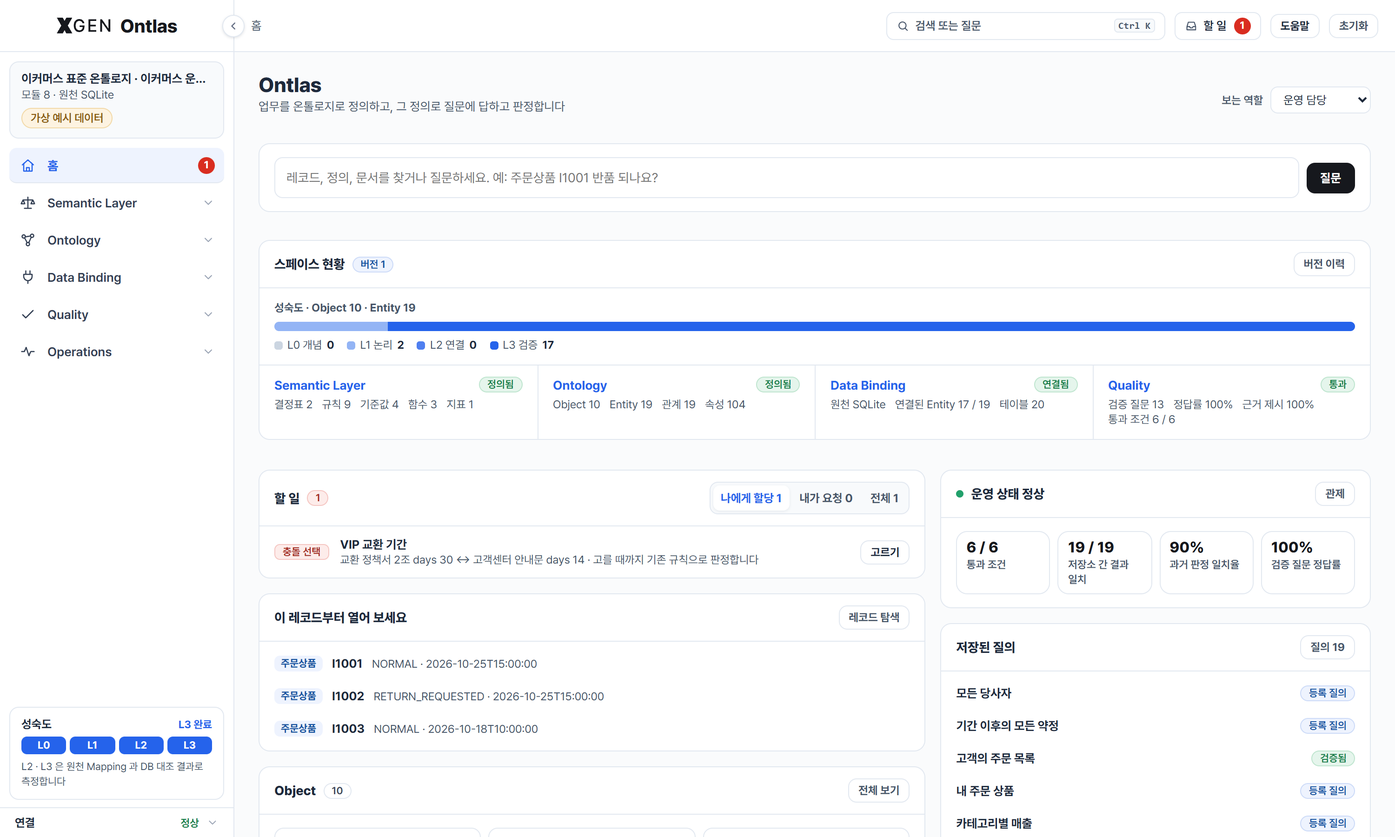
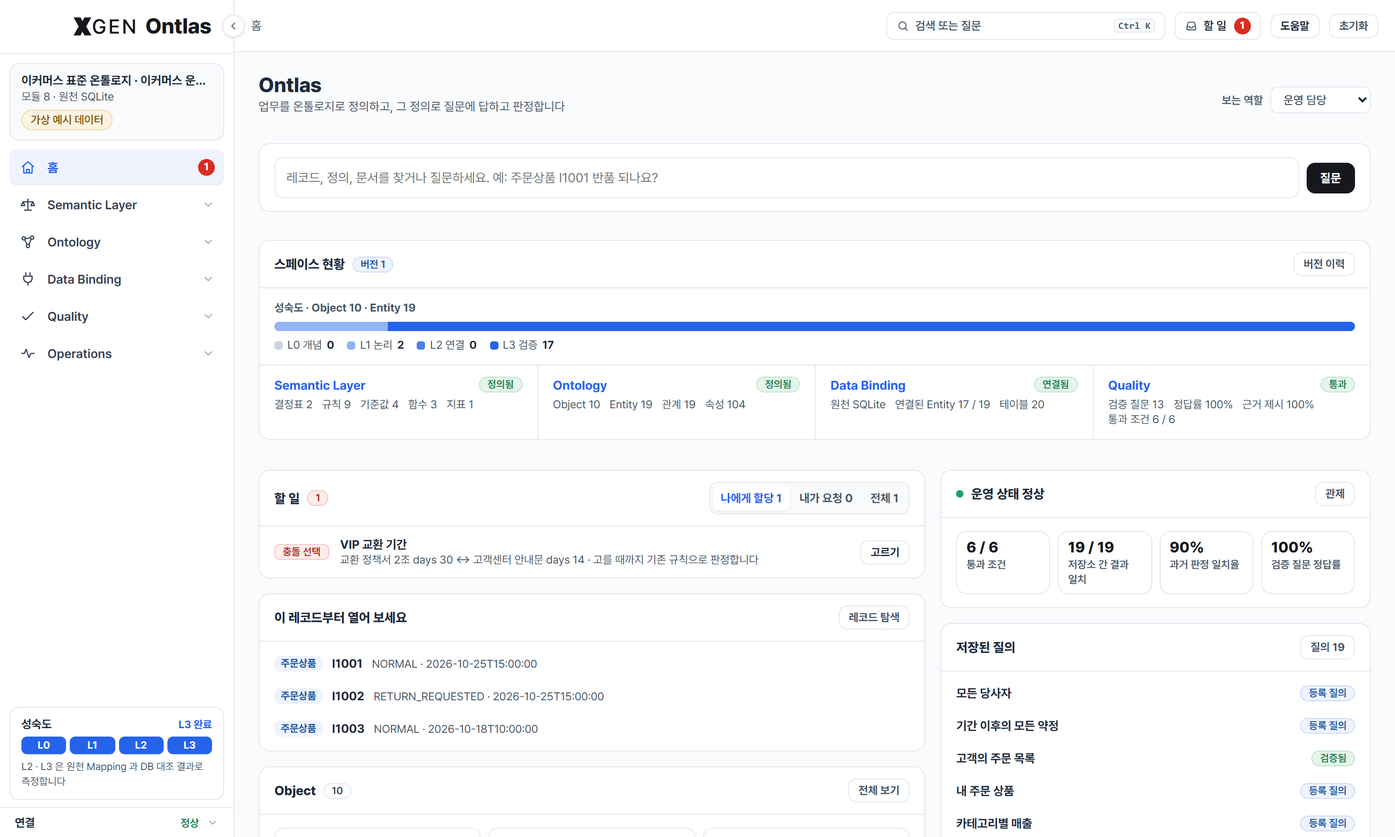
The document graph drawn as the record graph; 라이브러리 as its own screen; the brand right-aligned
- The record graph's drawing takes its graph and look as arguments, and the document graph uses it:
  one document or concept in the middle, the sections and concepts around it (at most 26, nearest
  first), each kind its colour and outline, relation names on the lines of the node picked, a double
  press moving the middle, drag, pan and wheel zoom. Around a document the path is document,
  section, concept; co-mentions are left out. The sigma canvas leaves the documents screen.
- The radial layout orders and turns each ring toward the nodes it hangs off, and widens a ring for
  the nodes it holds; the record graph draws the same way.
- 모듈 라이브러리 is its own entry under Ontology (라이브러리), out of 변경 · 버전.
- The brand stands at the right of the sidebar head, larger.

diff --git a/src/ontlas/web/static/app.js b/src/ontlas/web/static/app.js
@@ -68,7 +68,7 @@
   const NAV_GROUP = [['home', '홈', ['home', 'inbox']],
     ['sem', '규칙', ['semrules', 'mgrules', 'rules', 'mgfuncs']], ['sem', '용어 사전', ['lexicon']], ['sem', '규칙 생성 Agent', ['ruleagent']], ['sem', '권한', ['roles']],
     ['ont', 'Object', ['objmgr']], ['ont', 'Entity', ['objects', 'states']], ['ont', '그래프 탐색', ['model', 'onto']],
-    ['ont', '문서', ['docs']], ['ont', '질의', ['query']], ['ont', '변경 · 버전', ['changes', 'versions', 'library']],
+    ['ont', '문서', ['docs']], ['ont', '질의', ['query']], ['ont', '변경 · 버전', ['changes', 'versions']], ['ont', '라이브러리', ['library']],
     ['bnd', '데이터 가져오기', ['catalog', 'db', 'data', 'convert']], ['bnd', 'Mapping', ['sources', 'bind']],
     ['bnd', '액션', ['actions', 'decide']], ['bnd', '레코드', ['records', 'record', 'graph']],
     ['qa', '검증 질문', ['check']], ['qa', '검증', ['flow', 'search']],
@@ -445,7 +445,7 @@
   const S = {
     st: null, tab: 'library', kind: 'all', libFocus: '', libScroll: false, ontoPick: '', impact: null, pos: {}, sel: null, gsel: null, obj: null,
     nopen: {}, lopen: false, xp: new Set(), explain: false,  // the shell: folded sidebar sections, the connection card, notes opened on a card, notes always shown
-    ru: null, met: {}, sp: null, sr: { text: '', folder: '', res: null, busy: false, more: null, moreBusy: false, fb: '', di: 0, fix: null, tab: '' }, dg: null, dgsel: null, dsec: null, dq: null, docpos: {}, dfolder: '', drel: null, djob: null, dreader: '',
+    ru: null, met: {}, sp: null, sr: { text: '', folder: '', res: null, busy: false, more: null, moreBusy: false, fb: '', di: 0, fix: null, tab: '' }, dg: null, dsec: null, dq: null, dgx: { nodes: {}, edges: [], seed: '', layout: 'radial', zoom: 1, pos: {}, hide: [], sel: '', of: null }, dfolder: '', drel: null, djob: null, dreader: '',
     vs: { kind: 'qdrant', url: '' }, gw: { url: '', connection: '', dialect: 'postgres', token: '' }, ad: null, adrep: null, adbusy: false, adrs: null,
     ex: { tree: null, items: null, node: '', open: { 'group:repos': true }, tab: 'store', q: '', kind: '', hits: null, sel: {}, tsel: {}, edit: null, moving: null, busy: false, loading: false, error: '' }, amap: null, mapn: null, mapsel: null, mappos: {}, conn: null, links: null, ltab: 'store', help: false,
     q: { mode: 'list', name: null, params: {}, role: '', principal: {}, target: 'sql:postgres', res: null, code: false, props: {},
@@ -1687,8 +1687,8 @@
     const i = S.st.graph.nodes.findIndex((n) => n.id === type);
     return GX_SHAPE[(i < 0 ? 0 : i) % GX_SHAPE.length];
   }
-  function gxShapeSvg(type, b, fill, ink) {
-    const k = gxShape(type), st = `style="fill:${fill};stroke:${ink}"`, { x, y, w, h } = b;
+  function gxShapeSvg(type, b, fill, ink, k = gxShape(type)) {
+    const st = `style="fill:${fill};stroke:${ink}"`, { x, y, w, h } = b;
     if (k === 'box') return `<rect class="shape" x="${x}" y="${y}" width="${w}" height="${h}" rx="4" ${st}/>`;
     if (k === 'round') return `<rect class="shape" x="${x}" y="${y}" width="${w}" height="${h}" rx="9" ${st}/>`;
     if (k === 'hex') { const d = Math.min(10, h / 2); return `<path class="shape" d="M${x + d},${y} H${x + w - d} L${x + w},${y + h / 2} L${x + w - d},${y + h} H${x + d} L${x},${y + h / 2} Z" ${st}/>`; }
@@ -1702,10 +1702,12 @@
   const gxName = (n) => (n.alt !== undefined && n.alt !== '' ? n.alt : n.title);  // a perspective may name records by another property
   const gxWord = (n) => (n.type === 'bundle' ? `${n.label} ${n.key} · 펼치기` : `${n.label} ${n.key}${gxName(n) ? ` ${String(gxName(n)).length > 9 ? `${String(gxName(n)).slice(0, 8)}…` : gxName(n)}` : ''}`);
 
-  function gxLayout() {
-    const g = S.gx;
+  // how a graph of typed nodes is drawn: the record graph's look here, the document graph's by the documents
+  const GX_LOOK = { word: (n) => gxWord(n), shape: (type) => gxShape(type), color: (type) => gxColor(type), seed: (g) => gxId(g.seed.type, g.seed.key), name: '레코드 그래프' };
+
+  function gxLayout(g = S.gx, look = GX_LOOK) {
     const ids = Object.keys(g.nodes).filter((id) => !g.hide.includes(g.nodes[id].type));
-    const seed = gxId(g.seed.type, g.seed.key);
+    const seed = look.seed(g);
     const near = {};
     g.edges.forEach((e) => { (near[e.source] = near[e.source] || []).push(e.target); (near[e.target] = near[e.target] || []).push(e.source); });
     const dist = { [seed]: 0 }, queue = [seed];
@@ -1721,12 +1723,30 @@
       lv.forEach((id, i) => { at[id] = i; });
     });
     const boxes = {};
-    const size = (id) => ({ w: Math.max(70, textW(gxWord(g.nodes[id])) + GX.padX * 2 + (['hex', 'slant', 'tag'].includes(gxShape(g.nodes[id].type)) ? 16 : 0)), h: GX.h });  // a pointed outline needs room at its ends
+    const size = (id) => ({ w: Math.max(70, textW(look.word(g.nodes[id])) + GX.padX * 2 + (['hex', 'slant', 'tag'].includes(look.shape(g.nodes[id].type)) ? 16 : 0)), h: GX.h });  // a pointed outline needs room at its ends
     if (g.layout === 'radial') {
+      const ang = {};
+      let outer = 0;  // a ring is far enough out for its nodes to stand side by side, and past the ring inside it
+      // a node on a ring faces the nodes it hangs off: the ring is ordered by their mean angle and turned to match
+      const want = (id, d) => {
+        const xs = (near[id] || []).filter((y) => dist[y] === d - 1 && ang[y] !== undefined).map((y) => ang[y]);
+        return xs.length ? Math.atan2(xs.reduce((s, a) => s + Math.sin(a), 0), xs.reduce((s, a) => s + Math.cos(a), 0)) : 0;
+      };
       levels.forEach((lv, d) => {
         if (!lv) return;
+        const step = (Math.PI * 2) / lv.length;
+        let turn = -Math.PI / 2;
+        if (d > 0) {
+          const w = Object.fromEntries(lv.map((id) => [id, want(id, d)]));
+          lv.sort((x, y) => w[x] - w[y]);
+          const sx = lv.reduce((s, id, i) => s + Math.cos(w[id] - i * step), 0), sy = lv.reduce((s, id, i) => s + Math.sin(w[id] - i * step), 0);
+          turn = Math.atan2(sy, sx);
+        }
+        const r = d ? Math.max(d * GX.ring, outer + GX.ring * 0.75, lv.reduce((s, id) => s + size(id).w + 18, 0) * 1.35 / (Math.PI * 2)) : 0;
+        outer = r;
         lv.forEach((id, i) => {
-          const a = (i / lv.length) * Math.PI * 2 - Math.PI / 2 + d * 0.35, r = d * GX.ring;
+          const a = i * step + turn;
+          ang[id] = a;
           const sz = size(id);
           boxes[id] = { ...sz, x: r * Math.cos(a) - sz.w / 2, y: r * Math.sin(a) - sz.h / 2 };
         });
@@ -1749,10 +1769,9 @@
     return { boxes, minX, minY, W: Math.max(...xs.map((b) => b.x + b.w), 300) + GX.pad, H: Math.max(...xs.map((b) => b.y + b.h), 200) + GX.pad };
   }
 
-  function gxSvg() {
-    const g = S.gx;
+  function gxSvg(g = S.gx, look = GX_LOOK) {
     if (!Object.keys(g.nodes).length) return '';
-    const L = gxLayout(), z = g.zoom || 1;
+    const L = gxLayout(g, look), z = g.zoom || 1;
     const way = new Set((g.routeEdges || []).map((e) => `${e.source}|${e.target}`));
     const onWay = new Set((g.route || []).map((x) => x.id));
     const place = pairs(g.edges, (e) => [e.source, e.target]);
@@ -1764,29 +1783,28 @@
       const on = g.sel === e.source || g.sel === e.target;
       const c = bend(p, q, ...place(e));
       // an arrowhead for each way the relation was opened: from its source, from its target, or both
-      const back = e.groups.some((x) => x.endsWith('|0')), ahead = e.route || !back || e.groups.some((x) => x.endsWith('|1'));
+      const back = (e.groups || []).some((x) => x.endsWith('|0')), ahead = e.route || !back || (e.groups || []).some((x) => x.endsWith('|1'));
       const tip = `url(#${hot ? 'gxhot' : 'gxarrow'})`;
       return `<g class="gxe${hot ? ' hot' : ''}${on ? ' on' : ''}"><path d="${c.d}"${ahead ? ` marker-end="${tip}"` : ''}${back ? ` marker-start="${tip}"` : ''}/><text x="${c.x}" y="${c.y - 5}" text-anchor="middle">${esc(e.label || '')}</text></g>`;
     }).join('');
     const nodes = Object.entries(L.boxes).map(([id, b]) => {
-      const n = g.nodes[id], [ink, fill] = gxColor(n.type);
-      const cls = `${id === g.sel ? ' on' : ''}${onWay.has(id) ? ' way' : ''}${n.type === 'bundle' ? ' bundle' : ''}${id === gxId(g.seed.type, g.seed.key) ? ' seed' : ''}`;
-      return `<g class="gxn${cls}" data-gx="${esc(id)}">${gxShapeSvg(n.type, b, fill, ink)}
-        <text x="${b.x + b.w / 2}" y="${b.y + b.h / 2 + 4.5}" text-anchor="middle" style="fill:${ink}">${esc(gxWord(n))}</text></g>`;
+      const n = g.nodes[id], [ink, fill] = look.color(n.type);
+      const cls = `${id === g.sel ? ' on' : ''}${onWay.has(id) ? ' way' : ''}${n.type === 'bundle' ? ' bundle' : ''}${id === look.seed(g) ? ' seed' : ''}`;
+      return `<g class="gxn${cls}" data-gx="${esc(id)}">${gxShapeSvg(n.type, b, fill, ink, look.shape(n.type))}
+        <text x="${b.x + b.w / 2}" y="${b.y + b.h / 2 + 4.5}" text-anchor="middle" style="fill:${ink}">${esc(look.word(n))}</text></g>`;
     }).join('');
-    return `<svg class="gxsvg" width="${Math.round(L.W * z)}" height="${Math.round(L.H * z)}" viewBox="0 0 ${L.W} ${L.H}" role="img" aria-label="레코드 그래프">
+    return `<svg class="gxsvg" width="${Math.round(L.W * z)}" height="${Math.round(L.H * z)}" viewBox="0 0 ${L.W} ${L.H}" role="img" aria-label="${esc(look.name)}">
       <defs><marker id="gxarrow" viewBox="0 0 10 10" refX="9" refY="5" markerWidth="7" markerHeight="7" orient="auto-start-reverse"><path d="M0 0L10 5L0 10z" fill="#98a2b3"/></marker>
       <marker id="gxhot" viewBox="0 0 10 10" refX="9" refY="5" markerWidth="7" markerHeight="7" orient="auto-start-reverse"><path d="M0 0L10 5L0 10z" fill="#e8590c"/></marker></defs>${edges}${nodes}</svg>`;
   }
 
-  function mountGx() {
-    const box = $('#gxcanvas');
+  function mountGx(box = $('#gxcanvas'), g = S.gx, look = GX_LOOK, on = { pick: (id) => gxPick(id), open: (id) => gxOpen(id), zoom: (step) => gxZoom(step) }) {
     if (!box || box.dataset.on) return;
     box.dataset.on = '1';
     let drag = null;
     box.addEventListener('pointerdown', (ev) => {
       const n = ev.target.closest('[data-gx]');
-      const L = n && gxLayout(), b = L && L.boxes[n.dataset.gx];
+      const L = n && gxLayout(g, look), b = L && L.boxes[n.dataset.gx];
       drag = b ? { id: n.dataset.gx, x0: ev.clientX, y0: ev.clientY, bx: b.x + L.minX, by: b.y + L.minY, moved: false }
         : { pan: true, x0: ev.clientX, y0: ev.clientY, sl: box.scrollLeft, st: box.scrollTop, moved: false };
       box.setPointerCapture(ev.pointerId);
@@ -1797,22 +1815,22 @@
       if (!drag.moved && Math.abs(dx) + Math.abs(dy) < 4) return;
       drag.moved = true;
       if (drag.pan) { box.scrollLeft = drag.sl - dx; box.scrollTop = drag.st - dy; box.classList.add('panning'); return; }
-      const z = S.gx.zoom || 1;
-      S.gx.pos[drag.id] = { x: drag.bx + dx / z, y: drag.by + dy / z };
-      box.innerHTML = gxSvg();
+      const z = g.zoom || 1;
+      g.pos[drag.id] = { x: drag.bx + dx / z, y: drag.by + dy / z };
+      box.innerHTML = gxSvg(g, look);
     });
     let last = { id: '', at: 0 };  // the canvas is redrawn on a press, so a double-click is two presses on one box in time
     const end = () => {
       if (drag && !drag.moved && !drag.pan) {
         const twice = last.id === drag.id && Date.now() - last.at < 450;
         last = { id: drag.id, at: twice ? 0 : Date.now() };
-        if (twice) gxOpen(drag.id); else gxPick(drag.id);
+        if (twice) on.open(drag.id); else on.pick(drag.id);
       }
       drag = null; box.classList.remove('panning');
     };
     box.addEventListener('pointerup', end);
     box.addEventListener('pointercancel', end);
-    box.addEventListener('wheel', (ev) => { ev.preventDefault(); gxZoom(ev.deltaY < 0 ? 1 : -1); }, { passive: false });  // the wheel zooms; the canvas pans by dragging
+    box.addEventListener('wheel', (ev) => { ev.preventDefault(); on.zoom(ev.deltaY < 0 ? 1 : -1); }, { passive: false });  // the wheel zooms; the canvas pans by dragging
   }
 
   function gxZoom(step) {
@@ -1823,10 +1841,9 @@
     gxRedraw();
   }
 
-  function gxFit() {
-    const g = S.gx, box = $('#gxcanvas');
+  function gxFit(g = S.gx, box = $('#gxcanvas'), look = GX_LOOK) {
     if (g.zoomed || !box || !Object.keys(g.nodes).length) return;
-    const L = gxLayout();
+    const L = gxLayout(g, look);
     g.zoom = Math.min(1, Math.max(0.35, Math.min((box.clientWidth - 8) / L.W, (box.clientHeight - 8) / L.H)));
   }
 
@@ -3882,7 +3899,7 @@
     return `${head}<div class="stats">${stats}</div>
       <div class="card" id="dreadcard" style="margin-bottom:14px">${readCard()}</div>
       <div class="grid" style="grid-template-columns:minmax(0,1.5fr) minmax(320px,1fr)">
-        <div class="card"><div class="ch">문서 그래프</div><div class="cb" style="padding:0"><div class="kg" id="docgraph"></div></div></div>
+        ${dgxCard(g)}
         <div class="card" id="docside">${docSide()}</div>
       </div>${relationCard()}${queries}`;
   }
@@ -3926,6 +3943,72 @@
     return `<div class="ch">${sel ? '절 내용' : '문서 목록'}${sel ? '<div class="right"><button class="btn sm ghost" data-act="dsecclose">목록</button></div>' : ''}</div><div class="cb scroll" style="max-height:600px">${detail}</div>`;
   }
 
+  // ---- the document graph: one document or concept in the middle, what it holds and names around it -----------------
+  const DGX_SHAPE = { document: 'box', section: 'round', ontology: 'pill', keyword: 'tag' };
+  const DGX_LOOK = {
+    word: (n) => (n.label.length > 14 ? `${n.label.slice(0, 13)}…` : n.label),
+    shape: (type) => DGX_SHAPE[type] || 'pill',
+    color: (type) => GX_COLOR[Math.max(0, ((S.dg && S.dg.clusters) || []).findIndex((c) => c.id === type)) % GX_COLOR.length],
+    seed: (g) => g.seed,
+    name: '문서 그래프',
+  };
+  const DGX_MAX = 26;  // nodes around the one in the middle, nearest first
+
+  function dgxAround(seed) {
+    const dg = S.dg, x = S.dgx, near = {};
+    const kind = Object.fromEntries(dg.nodes.map((n) => [n.id, n.module]));
+    // a document's sections carry what it names: around a document the path is document, section, concept
+    const direct = (e) => kind[seed] === 'document' && e.label !== '절' && (kind[e.source] === 'document' || kind[e.target] === 'document');
+    dg.edges.forEach((e) => { (near[e.source] = near[e.source] || []).push(e); (near[e.target] = near[e.target] || []).push(e); });
+    const keep = new Set([seed]);
+    let ring = [seed];
+    for (let d = 0; d < 2 && keep.size < DGX_MAX; d += 1) {
+      const next = [];
+      ring.forEach((id) => (near[id] || []).forEach((e) => {
+        if (e.label === '함께 언급') return;  // the section between two concepts says the same, without the crowd
+        if (direct(e)) return;
+        const o = e.source === id ? e.target : e.source;
+        if (!keep.has(o) && keep.size < DGX_MAX) { keep.add(o); next.push(o); }
+      }));
+      ring = next;
+    }
+    const byId = Object.fromEntries(dg.nodes.map((n) => [n.id, n]));
+    Object.assign(x, { seed, pos: {}, zoomed: false, sel: keep.has(x.sel) ? x.sel : '' });
+    x.nodes = Object.fromEntries([...keep].filter((id) => byId[id]).map((id) => [id, { type: byId[id].module, label: byId[id].label }]));
+    x.edges = dg.edges.filter((e) => keep.has(e.source) && keep.has(e.target) && !direct(e) && e.label !== '함께 언급')
+      .map((e) => ({ source: e.source, target: e.target, label: e.label }));
+  }
+
+  function dgxCard(g) {
+    const x = S.dgx, n = Object.keys(x.nodes).length;
+    const docs = g ? (g.nodes || []).filter((d) => d.module === 'document') : [];
+    const kinds = g ? (g.clusters || []).filter((c) => Object.values(x.nodes).some((v) => v.type === c.id)) : [];
+    const legend = kinds.map((c) => { const [ink, fill] = DGX_LOOK.color(c.id); return `<span class="gxleg"><i style="background:${fill};border-color:${ink}"></i>${esc(c.label)} ${Object.values(x.nodes).filter((v) => v.type === c.id).length}</span>`; }).join('');
+    const seed = x.nodes[x.seed];
+    return `<div class="card"><div class="ch">${seed ? `${esc(seed.label)} 중심` : '문서 그래프'}<div class="right">
+        ${docs.length ? `<select data-in="dgxseed" aria-label="중심 문서"><option value="">문서 선택</option>${docs.map((d) => opt(d.id, d.label, x.seed)).join('')}</select>` : ''}
+        <label class="chip chipsel">레이아웃: <select data-in="dgxlayout" aria-label="레이아웃">${[['radial', '방사형'], ['layered', '계층']].map(([k, w]) => opt(k, w, x.layout)).join('')}</select></label>
+        <span class="erzoom" role="group" aria-label="확대"><button class="iconbtn" data-act="dgxzoom" data-z="-1" aria-label="축소">−</button><button class="btn sm ghost" data-act="dgxzoom" data-z="0" title="화면에 맞춤">${Math.round((x.zoom || 1) * 100)}%</button><button class="iconbtn" data-act="dgxzoom" data-z="1" aria-label="확대">+</button></span></div></div>
+      <div class="cb gxcanvas dgxcanvas" id="dgxcanvas">${n ? gxSvg(x, DGX_LOOK) : '<div class="empty">문서가 없습니다.</div>'}</div>
+      <div class="cb gxfoot"><span class="gxlegs">${legend}</span><span class="muted">노드 ${n} · 관계 ${x.edges.length} · 선택한 노드의 관계 이름 표시 · 두 번 눌러 중심 이동 · 휠로 확대</span></div></div>`;
+  }
+
+  function dgxPaint() {
+    const box = $('#dgxcanvas'), x = S.dgx;
+    if (!box || !Object.keys(x.nodes).length) return;
+    gxFit(x, box, DGX_LOOK);
+    box.innerHTML = gxSvg(x, DGX_LOOK);
+    const z = $('[data-act=dgxzoom][data-z="0"]');
+    if (z) z.textContent = `${Math.round((x.zoom || 1) * 100)}%`;
+  }
+
+  function dgxZoom(step) {
+    const x = S.dgx;
+    x.zoomed = step !== 0;
+    if (step === 0) x.zoom = 1; else x.zoom = Math.min(1.8, Math.max(0.35, Math.round(((x.zoom || 1) + step * 0.1) * 10) / 10));
+    dgxPaint();
+  }
+
   async function mountDocs() {
     if (!S.sp) loadSpace();
     if (S.sp && !S.sp.busy && !S.sp.error) {
@@ -3945,14 +4028,22 @@
         const titles = S.dg.titles || {};
         const doc = Object.fromEntries((S.dg.nodes || []).filter((n) => n.module === 'document').map((n) => [n.id, n.label]));
         const parent = Object.fromEntries((S.dg.edges || []).filter((e) => e.label === '절').map((e) => [e.target, e.source]));
-        mountGraph($('#docgraph'), S.dg, { key: 'docs', pos: S.docpos, sel: () => S.dgsel, tag: (n) => (S.dg.clusters.find((c) => c.id === n.module) || {}).label || '', clear: () => { S.dgsel = null; },
+        if (S.dgx.of !== S.dg) {  // a graph read anew: its first document in the middle
+          S.dgx.of = S.dg;
+          const first = (S.dg.nodes || []).find((n) => n.module === 'document');
+          if (first) dgxAround(first.id); else Object.assign(S.dgx, { nodes: {}, edges: [], seed: '' });
+          if (S.tab === 'docs') render();
+          return;
+        }
+        mountGx($('#dgxcanvas'), S.dgx, DGX_LOOK, { open: (id) => { dgxAround(id); render(); }, zoom: dgxZoom,
           pick: async (id) => {
-            S.dgsel = id;
-            drawGraph();
+            S.dgx.sel = id;
+            dgxPaint();
             if (titles[id]) {
               try { S.dsec = await api(`space/section?document=${encodeURIComponent(doc[parent[id]] || '')}&section=${encodeURIComponent(titles[id])}`); $('#docside').innerHTML = docSide(); } catch (e) { fail(e); }
             }
           } });
+        dgxPaint();
       }
       if (!S.dq) { S.dq = 0; try { S.dq = await api('space/queries'); if (S.tab === 'docs') render(); } catch (e) { S.dq = null; } }
     }
@@ -7448,6 +7539,7 @@ ${controls}${body}`;
     rpmore: () => rpLoad(true),
     rppick: (t) => { const w = S.rp.which; S.rp = null; paintLayer(); gxChoose(w, { type: t.dataset.type, key: t.dataset.key, type_label: t.dataset.label, title: t.dataset.title }); },
     gxzoom: (t) => gxZoom(Number(t.dataset.z)),
+    dgxzoom: (t) => dgxZoom(Number(t.dataset.z)),
     gxfound: (t) => gxChoose(t.dataset.w, { type: t.dataset.type, key: t.dataset.key, type_label: t.dataset.label, title: t.dataset.title }),
     gxreset: () => { S.gx.pos = {}; S.gx.hide = []; S.gx.zoom = 1; S.gx.zoomed = false; gxStart(S.gx.seed.type, S.gx.seed.key); },
     gxviewsave: async () => {
@@ -7802,7 +7894,7 @@ ${controls}${body}`;
       location.hash = '#mgrules';
       simulateNow(t.dataset.key, {});
     },
-    dsecclose: () => { S.dsec = null; S.dgsel = null; drawGraph(); $('#docside').innerHTML = docSide(); },
+    dsecclose: () => { S.dsec = null; S.dgx.sel = ''; dgxPaint(); $('#docside').innerHTML = docSide(); },
     dread: () => readRelations(),
     dstop: async () => {
       if (!S.djob) return;
@@ -8547,7 +8639,7 @@ ${controls}${body}`;
     srfkey: (t) => { S.sr.fix.key = t.value; },
     srfat: (t) => { S.sr.fix.at = t.value; },
     vkind: (t) => { S.vs.kind = t.value; render(); },
-    dfolder: (t) => { S.dfolder = t.value; S.dg = null; S.drel = null; S.dsec = null; S.dgsel = null; render(); },
+    dfolder: (t) => { S.dfolder = t.value; S.dg = null; S.drel = null; S.dsec = null; S.dgx.sel = ''; render(); },
     dreader: (t) => { S.dreader = t.value; },
     vemb: (t) => { S.vemb = { pick: t.value, plan: null, busy: false }; render(); },
     vurl: (t) => { S.vs.url = t.value; },
@@ -8613,6 +8705,8 @@ ${controls}${body}`;
     hrole: (t) => ACT.hrole(t),
     srfdec: (t) => { S.sr.fix.decision = t.value; render(); },
     gxlayout: (t) => { S.gx.layout = t.value; S.gx.pos = {}; S.gx.zoomed = false; gxRedraw(); },
+    dgxlayout: (t) => { S.dgx.layout = t.value; S.dgx.pos = {}; S.dgx.zoomed = false; dgxPaint(); },
+    dgxseed: (t) => { if (t.value) { dgxAround(t.value); render(); } },
     gxrel: (t) => { if (t.checked) gxGrow(S.gx.sel, t.dataset.link, t.dataset.fw === '1'); else gxShrink(S.gx.sel, t.dataset.link, t.dataset.fw === '1'); },
     gxshow: (t) => { S.gx.hide = t.checked ? S.gx.hide.filter((x) => x !== t.dataset.t) : [...S.gx.hide, t.dataset.t]; S.gx.view = ''; render(); },
     gxview: (t) => { gxApplyView(t.value); render(); },

diff --git a/src/ontlas/web/static/app.css b/src/ontlas/web/static/app.css
@@ -1200,10 +1200,10 @@ tr.unasked td { color:#98a2b3; }
 
 /* the sidebar: the XGEN mark beside the product's name, the space being worked on, its parts, how far it has come */
 .sbrand { gap:8px; text-decoration:none; }
-.sbrand { justify-content:center; padding-left:12px; }
-.sbrand .xword { height:27px; width:auto; flex:none; fill:var(--navy); }
+.sbrand { justify-content:flex-end; padding:13px 24px 13px 12px; }
+.sbrand .xword { height:31px; width:auto; flex:none; fill:var(--navy); }
 .sbrand .xsym { display:none; width:26px; height:26px; flex:none; fill:var(--navy); }
-.sbrand .bname { display:block; flex:none; font-size:20px; font-weight:800; letter-spacing:-.3px; color:var(--navy); line-height:1; }
+.sbrand .bname { display:block; flex:none; font-size:23px; font-weight:800; letter-spacing:-.3px; color:var(--navy); line-height:1; }
 .sspace { display:flex; flex-direction:column; gap:3px; margin:10px 10px 0; padding:10px 12px; border:1px solid var(--line); border-radius:10px; background:var(--panel); font-size:12px; min-width:0; }
 .sspace > b { font-size:13px; color:var(--ink); white-space:nowrap; overflow:hidden; text-overflow:ellipsis; }
 .sspace > span { color:var(--muted); }
@@ -1350,3 +1350,9 @@ tr.unasked td { color:#98a2b3; }
 .otsteps i.part { background:#93b4f5; }
 .otsteps i.full { background:var(--blue); }
 .otloose { border-top:1px solid var(--line); padding-top:8px !important; padding-bottom:10px !important; }
+
+/* the document graph: relation names on the lines of the node picked */
+.dgxcanvas .gxe text { display:none; }
+.dgxcanvas .gxe.on text { display:block; }
+.card > .ch .right select[data-in=dgxseed] { width:auto; max-width:220px; }
+.chipsel select { width:auto; }

diff --git a/tools/render_screens.py b/tools/render_screens.py
@@ -142,7 +142,7 @@ def live_screens(page, base: str, out: Path) -> None:
     page.screenshot(path=str(out / "space-map.png"))
 
     open_tab(page, base, "docs")
-    page.wait_for_selector("#docgraph .kg-stage canvas", timeout=30000)
+    page.wait_for_selector("#dgxcanvas .gxn", timeout=30000)
     page.wait_for_timeout(1500)
     page.screenshot(path=str(out / "documents.png"))
 

diff --git a/README.md b/README.md
@@ -213,7 +213,8 @@ any screen, Object definition, decision table or query, or asks the words as a q
 | | 그래프 탐색 | 다이어그램 · 전체 보기 | Define on the canvas, the tree and the forms (see step 2), and see the whole definition as cards grouped by Object |
 | | 문서 | | See documents as sections and concepts, and the relations a model finds between concepts |
 | | 질의 | | Run a query, see it in each language, and ask in plain language when a model is connected |
-| | 변경 · 버전 | 변경 요청 · 버전 이력 · 모듈 라이브러리 | Review changes element by element with their regression, see every version of the space, and apply or remove modules (see step 6) |
+| | 변경 · 버전 | 변경 요청 · 버전 이력 | Review changes element by element with their regression, and see every version of the space (see step 6) |
+| | 라이브러리 | | Apply or remove modules, see each module's kind, versions and what it holds, and draft rules from policy text |
 | Data Binding | 데이터 가져오기 | 재료 카탈로그 · DB 연결 · 초안 생성 · 변환 결과 | Bring files and databases in and draft from them (see step 4) |
 | | Mapping | 데이터 소스 · DB 대조 | See the source's tables, keys and references, and check the definition against them |
 | | 액션 | 액션 정의 · 처리 요청 | Define actions; decide a case with its grounds and the path it took through the layers, request an action, approve it, roll it back |

diff --git a/CHANGELOG.md b/CHANGELOG.md
@@ -43,6 +43,10 @@ The page is regrouped into the four parts a space is made of, and rules, words a
   after, and pass conditions that stop or start passing; a question that reads rows with no source is not measured, not
   failed. `GET /api/versions`; `regression` on a change, its detail and the workspace trial. A change request keeps
   `decided_at`.
+- **The document graph is drawn as the record graph is**: one document or concept in the middle, its sections and the
+  concepts they name around it, by kind in colour and outline; a double press moves the middle, relation names show on
+  the lines of the node picked. The radial layout turns each ring toward the nodes it hangs off and widens a ring that
+  holds more. 모듈 라이브러리 is a screen of its own (Ontology › 라이브러리).
 - **A reason that names a value says the value in force.** `{@name}` in a rule's reason read as written on the decision
   view, the table editor and the search index's rule sentences; it now reads the value, as the answer did.
 - **Example.** `commerce` gets the parameter `return_window_days` and terms; the new `commerce-law` module (법령 기준,
